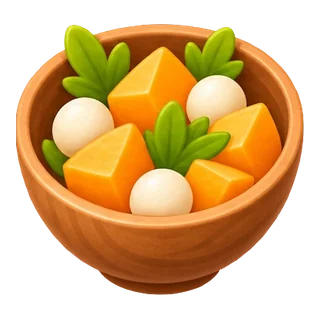
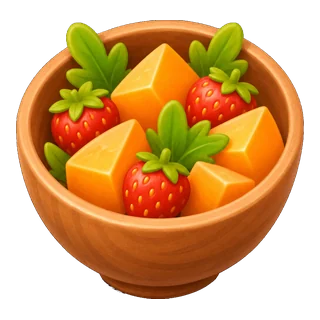
v2 : nouvelle image de la salade de melon (avec fraises)
Claude-Session: https://claude.ai/code/session_018D5HKJWKwN88xpAGuhHMQJ

diff --git a/index.html b/index.html
@@ -6,13 +6,13 @@
   <title>Potager idle</title>
   <meta name="description" content="Un petit jeu idle de potager : plante, arrose, récolte, cuisine et découvre des variétés hybrides.">
   <meta name="theme-color" content="#fdf3e7" id="theme-color">
-  <link rel="manifest" href="manifest.webmanifest?v=211">
+  <link rel="manifest" href="manifest.webmanifest?v=212">
   <link rel="icon" href="icons/favicon-32.png" sizes="32x32" type="image/png">
   <link rel="icon" href="icons/favicon-64.png" sizes="64x64" type="image/png">
   <link rel="icon" href="icons/icon-192.png" sizes="192x192" type="image/png">
   <link rel="preload" href="fonts/nunito-latin.woff2" as="font" type="font/woff2" crossorigin>
   <link rel="preload" href="fonts/fredoka-latin.woff2" as="font" type="font/woff2" crossorigin>
-  <link rel="stylesheet" href="css/style.css?v=211">
+  <link rel="stylesheet" href="css/style.css?v=212">
 </head>
 <body>
 <div id="app">
@@ -42,14 +42,14 @@
 <div id="fx"></div>
 <div id="toasts" aria-live="polite"></div>
 
-<script src="js/typo.js?v=211"></script>
-<script src="js/data.js?v=211"></script>
-<script src="assets/img/manifest.js?v=211"></script>
-<script src="js/art.js?v=211"></script>
-<script src="js/seasons.js?v=211"></script>
-<script src="js/sound.js?v=211"></script>
-<script src="js/achievements.js?v=211"></script>
-<script src="js/tuto.js?v=211"></script>
-<script src="js/game.js?v=211"></script>
+<script src="js/typo.js?v=212"></script>
+<script src="js/data.js?v=212"></script>
+<script src="assets/img/manifest.js?v=212"></script>
+<script src="js/art.js?v=212"></script>
+<script src="js/seasons.js?v=212"></script>
+<script src="js/sound.js?v=212"></script>
+<script src="js/achievements.js?v=212"></script>
+<script src="js/tuto.js?v=212"></script>
+<script src="js/game.js?v=212"></script>
 </body>
 </html>

diff --git a/js/game.js b/js/game.js
@@ -1,7 +1,7 @@
 "use strict";
 /* Numéro de version affiché dans les Paramètres.
    À chaque mise à jour : changer APP_VERSION, le ?v= dans index.html et VERSION dans sw.js. */
-const APP_VERSION = "2.0.0-beta.12";
+const APP_VERSION = "2.0.0-beta.13";
 /* ---------------- Helpers ---------------- */
 const $ = s => document.querySelector(s);
 const now = () => Date.now();

diff --git a/sw.js b/sw.js
@@ -1,6 +1,6 @@
 /* Service worker de Potager idle : rend le jeu jouable hors-ligne.
    À chaque mise à jour du jeu, augmente VERSION pour que les téléphones téléchargent la nouvelle version. */
-const VERSION = "potager-v211";
+const VERSION = "potager-v212";
 const FILES = [
   "./",
   "index.html",
